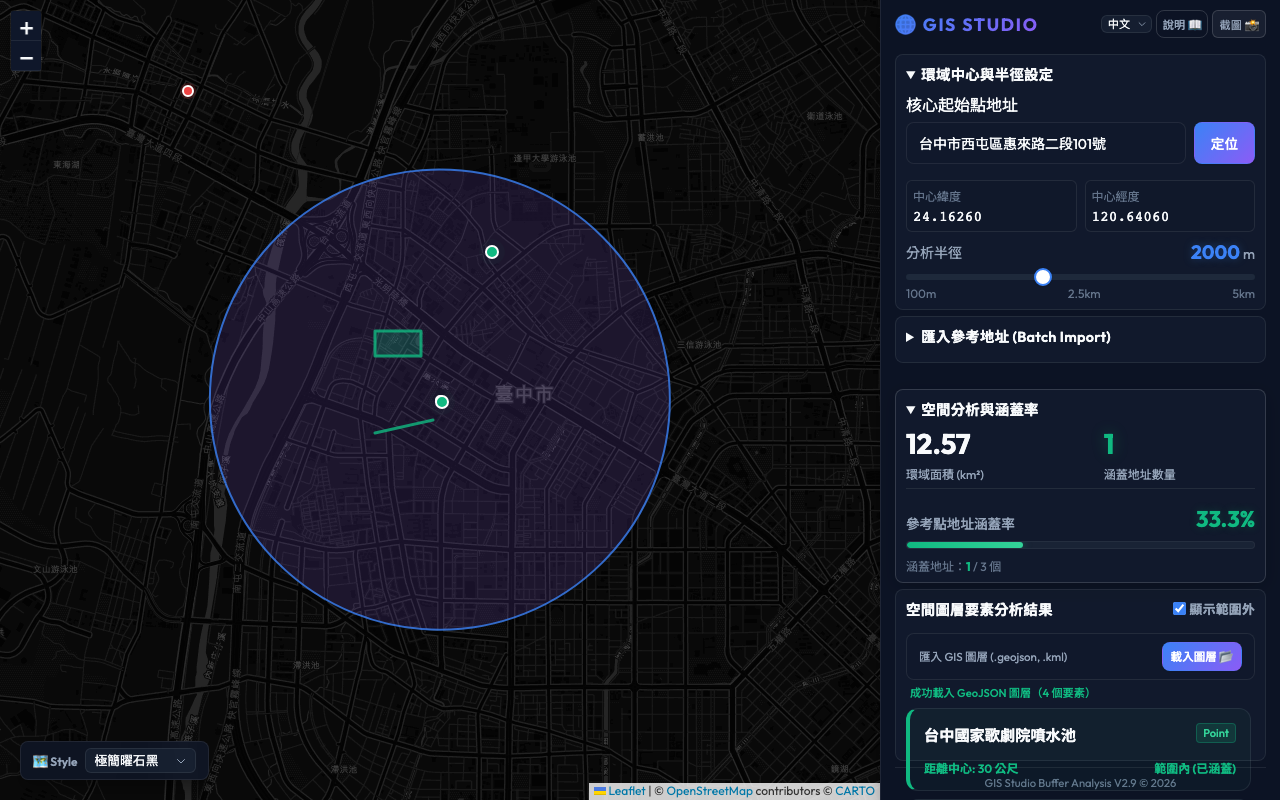
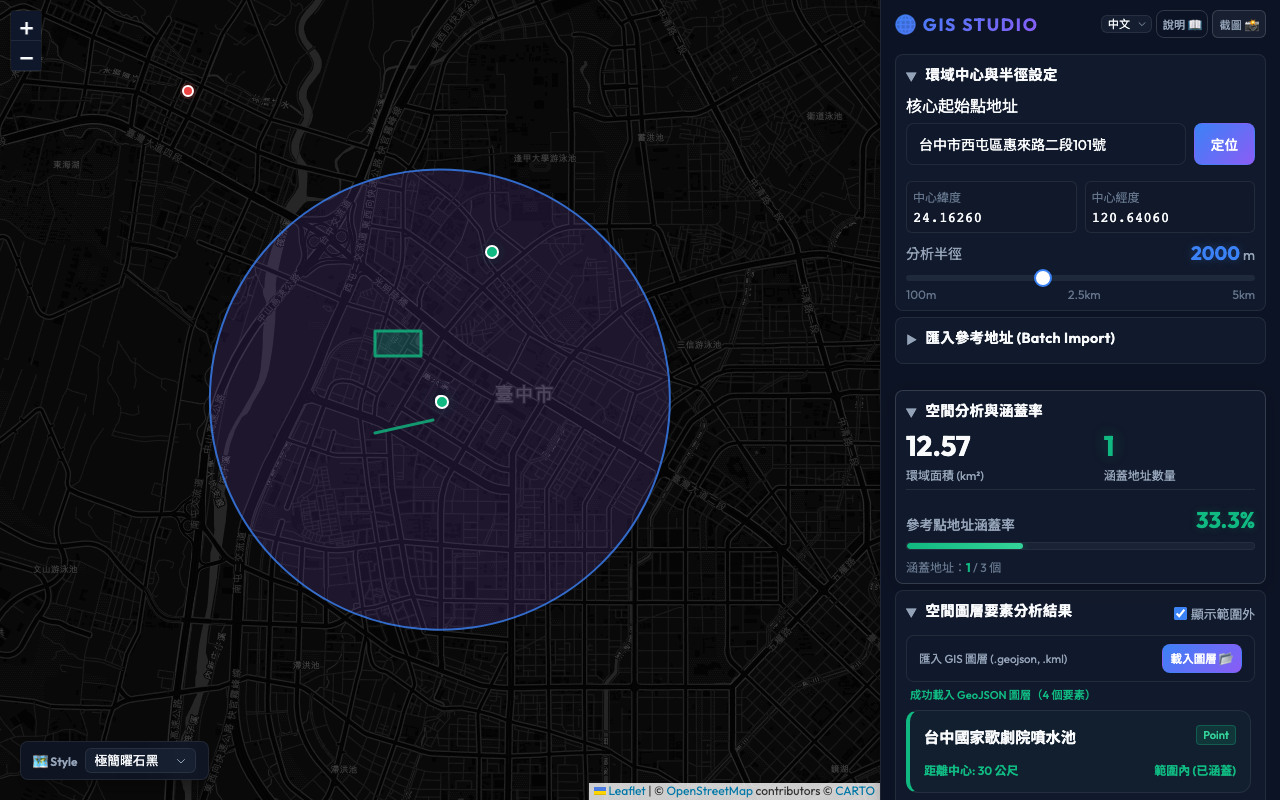
update

diff --git a/assets/i18n.js b/assets/i18n.js
@@ -66,7 +66,7 @@ export const translations = {
         modal_dec_1_title: "🔒 隱私與本機安全保護",
         modal_dec_1_desc: "本工具為 100% 純前端離線沙盒運算。您匯入的任何 KML、GeoJSON 空間圖層數據與批次地址，皆完全留在您的瀏覽器本地進行質心與 Haversine 距離計算，<strong>絕不會上傳至任何外部伺服器或後端保存</strong>，確保極致的資訊安全與個人隱私。",
         modal_dec_2_title: "🌐 地圖與定位 API 來源",
-        modal_dec_2_desc: "本系統地圖底圖採用 OpenStreetMap 數據，地理編碼（門牌定位）服務介接中華民國內政部 TGOS 門牌地址定位 API（Lite）以及 Nominatim 服務，自動進行 TWD97 至 WGS84 座標一致性投影反算。",
+        modal_dec_2_desc: "本系統地圖底圖採用 OpenStreetMap 數據，地理編碼（門牌定位）服務介接中華民國內政部 TGOS 門牌地址定位 API（Lite）以及 Nominatim 服務，自動進行 TWD97 至 WGS84 座標一致性投影反算。（*請注意：TGOS 地址定位服務僅限台灣地區，海外之門牌地址暫不適用。）",
         modal_dec_3_title: "⚠ 系統免責聲明",
         modal_dec_3_desc: "本工具提供之環域交集、涵蓋率與距離分析結果僅供參考，不具備法律與測量實質效力。實際空間交集情況，請以政府地政機關官方發布之登記或測量數據為準。",
 
@@ -146,7 +146,7 @@ export const translations = {
         modal_dec_1_title: "🔒 Privacy & Local Security",
         modal_dec_1_desc: "This tool runs 100% client-side inside browser sandbox. Your GIS vector layers and address lists are calculated entirely locally. <strong>No data will be uploaded to any external server</strong>, ensuring complete data security and privacy.",
         modal_dec_2_title: "🌐 Map & Geocoding Sources",
-        modal_dec_2_desc: "Map data is powered by OpenStreetMap. Address geocoding is integrated with Taiwan Ministry of Interior TGOS API (Lite) and Nominatim service, with automatic projection coordinate conversion from TWD97 to WGS84.",
+        modal_dec_2_desc: "Map data is powered by OpenStreetMap. Address geocoding is integrated with Taiwan Ministry of Interior TGOS API (Lite) and Nominatim service, with automatic projection coordinate conversion from TWD97 to WGS84. (*Note: TGOS geocoding service is only available for Taiwan area; overseas addresses are currently not supported.)",
         modal_dec_3_title: "⚠ Disclaimer",
         modal_dec_3_desc: "The spatial buffer calculations, coverage rate, and centroid distance results are for general reference only and have no legal or official survey validity. Please consult public land offices for official boundary surveys.",
 
@@ -225,8 +225,8 @@ export const translations = {
         
         modal_dec_1_title: "🔒 プライバシーとローカルセキュリティ",
         modal_dec_1_desc: "このツールはブラウザのサンドボックス内で動作する 100% クライアントサイドのオフラインアプリです。インポートされたKML、GeoJSON空間データはローカルブラウザでのみ計算され、<strong>外部サーバーやバックエンドにアップロードされることはありません</strong>。",
-        modal_dec_2_title: "🌐 地図と住所検索ソース",
-        modal_dec_2_desc: "地図背景はOpenStreetMapを採用しています。住所ジオコーディングは、台湾内政部TGOS住所検索API（Lite）およびNominatimと統合されており、TWD97投影座標からWGS84への自動逆算も行われます。",
+        modal_dec_2_title: "🌐 地図データとジオコーディングAPI",
+        modal_dec_2_desc: "地図背景はOpenStreetMapを採用しています。住所ジオコーディングは、台湾内政部TGOS住所検索API（Lite）およびNominatimと統合されており、TWD97投影座標からWGS84への自動逆算も行われます。（*注意：TGOS住所検索サービスは台湾地域のみ対応しており、海外の住所は現在サポートされていません。）",
         modal_dec_3_title: "⚠ 免責事項",
         modal_dec_3_desc: "このツールが提供するバッファ交差、カバー率、距離計算結果は参考情報であり、測量上または法的な効力はありません。公式な境界や測量データが必要な場合は、所管の土地登記所へご確認ください。",
 

diff --git a/index.html b/index.html
@@ -186,8 +186,8 @@
             
             <!-- 分析結果列表 -->
             <details class="control-card results-group" open style="margin-bottom: 6px;">
-                <summary class="card-title" style="display: flex; justify-content: space-between; align-items: center; width: 100%; cursor: pointer; user-select: none;">
-                    <span data-i18n="card_results_title">空間圖層要素分析結果</span>
+                <summary style="display: flex; justify-content: space-between; align-items: center; width: 100%; cursor: pointer; user-select: none;">
+                    <span class="card-title" data-i18n="card_results_title">空間圖層要素分析結果</span>
                     <div class="filter-toggle" onclick="event.stopPropagation();" style="display: flex; align-items: center; gap: 4px;">
                         <input type="checkbox" id="toggle-outside" checked>
                         <label for="toggle-outside" data-i18n="show_outside_label" style="cursor: pointer;">顯示範圍外</label>
@@ -210,7 +210,7 @@
             </details>
             
             <footer class="panel-footer" style="padding-top: 8px; margin-top: auto;">
-                <p>GIS Studio Buffer Analysis V2.9 &copy; 2026</p>
+                <p>Buffer Analysis V1.0 &copy; 2026 by J.J. Wang</p>
             </footer>
         </aside>
     </div>
@@ -269,7 +269,7 @@
                     </div>
                     <div class="declaration-item">
                         <strong data-i18n="modal_dec_2_title">🌐 地圖與定位 API 來源</strong>
-                        <p data-i18n="modal_dec_2_desc">本系統地圖底圖採用 OpenStreetMap 數據，地理編碼（門牌定位）服務介接中華民網路政部 TGOS 門牌地址定位 API（Lite）以及 Nominatim 服務，自動進行 TWD97 至 WGS84 座標一致性投影反算。</p>
+                        <p data-i18n="modal_dec_2_desc">本系統地圖底圖採用 OpenStreetMap 數據，地理編碼（門牌定位）服務介接中華民國內政部 TGOS 門牌地址定位 API（Lite）以及 Nominatim 服務，自動進行 TWD97 至 WGS84 座標一致性投影反算。（*請注意：TGOS 地址定位服務僅限台灣地區，海外之門牌地址暫不適用。）</p>
                     </div>
                     <div class="declaration-item">
                         <strong data-i18n="modal_dec_3_title">⚠ 系統免責聲明</strong>

diff --git a/assets/style.css b/assets/style.css
@@ -209,6 +209,33 @@ h1 {
     letter-spacing: 0.02em;
 }
 
+/* details summary 樣式重設，隱藏原生箭頭 */
+.control-card > summary::-webkit-details-marker,
+.stats-card > summary::-webkit-details-marker {
+    display: none;
+}
+.control-card > summary,
+.stats-card > summary {
+    list-style: none;
+    outline: none;
+}
+
+/* 自訂摺疊指示箭頭 */
+.card-title::before {
+    content: "▶";
+    display: inline-block;
+    font-size: 0.7rem;
+    margin-right: 8px;
+    transition: transform 0.2s ease;
+    color: var(--text-secondary);
+    vertical-align: middle;
+}
+
+details[open] > summary.card-title::before,
+details[open] > summary .card-title::before {
+    transform: rotate(90deg);
+}
+
 /* 座標顯示 */
 .coord-display {
     display: grid;
@@ -340,10 +367,6 @@ h1 {
 
 /* 結果列表區域 */
 .results-group {
-    flex-grow: 1;
-    display: flex;
-    flex-direction: column;
-    min-height: 0;
     margin-bottom: 10px;
 }
 
@@ -369,12 +392,11 @@ h1 {
 }
 
 .landmarks-list-container {
-    flex-grow: 1;
     overflow-y: auto;
     display: flex;
     flex-direction: column;
     gap: 8px;
-    max-height: none;
+    max-height: 300px;
     padding-right: 4px;
 }
 
